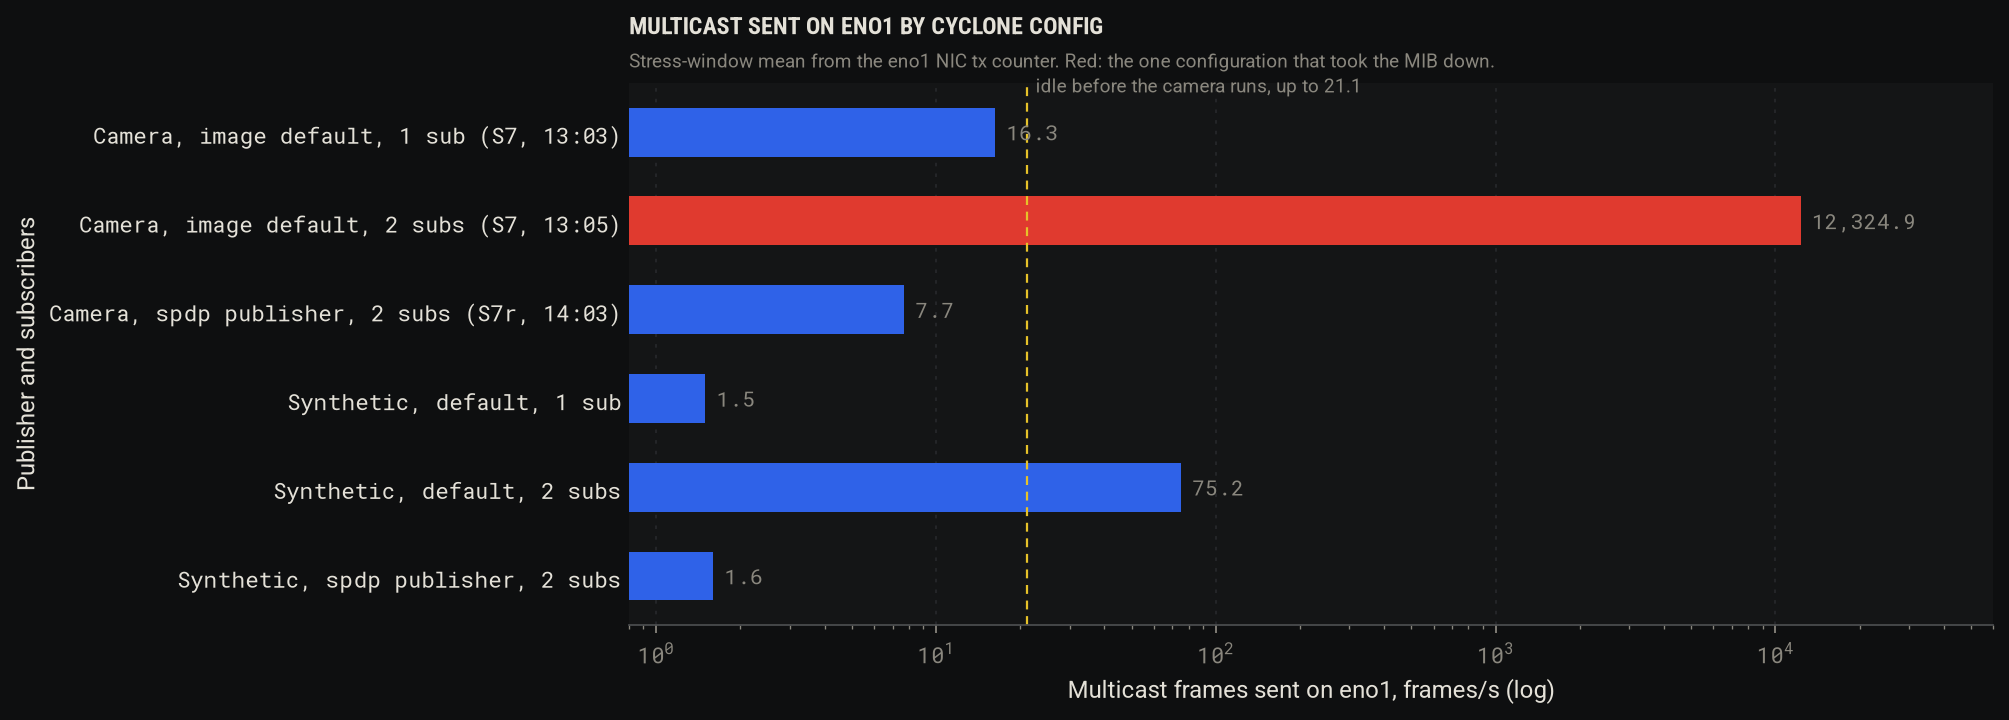
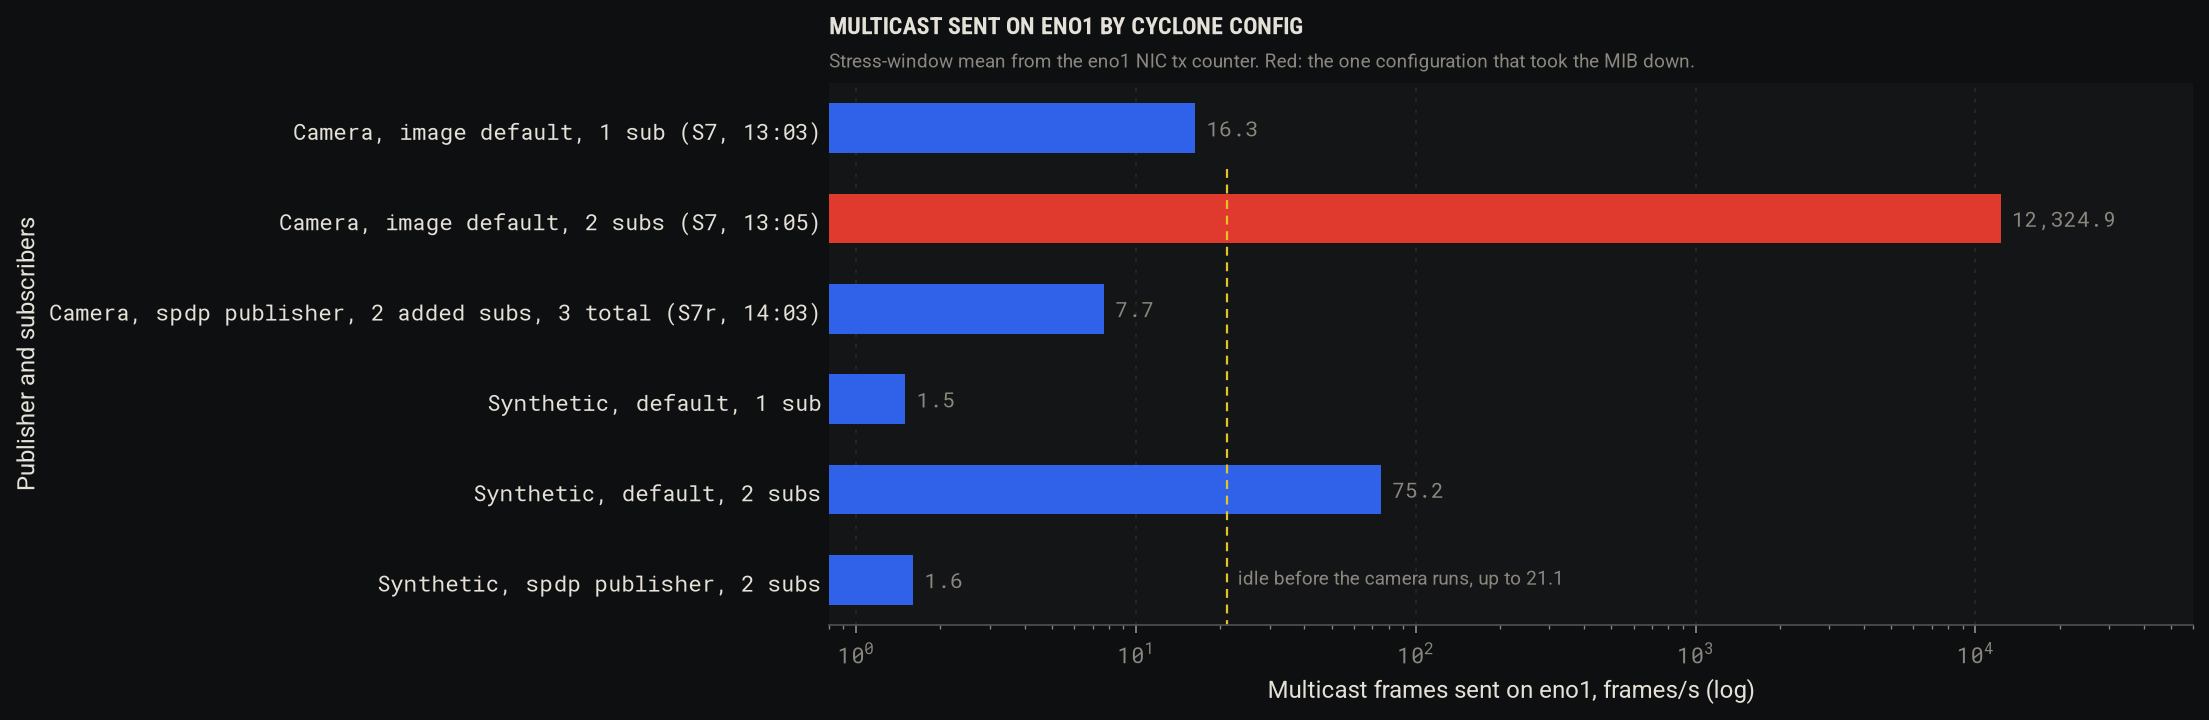
Chart label fixes: panel titles, idle line clear of values, S7r 3 total subs, zoom note and abort labels, probe row name

diff --git a/charts/make_charts.py b/charts/make_charts.py
@@ -106,7 +106,7 @@ def chart_timeline():
         a.plot([dt(t) for t in bt], by, color=S[i], lw=1.4)
         a.set_ylim(-1.5, 23)
         a.set_yticks([0, 10, 20])
-        a.text(0.995, 0.93, lab, transform=a.transAxes, ha="right", va="top", color=P["ink"], fontsize=9)
+        a.set_title(lab, loc="left", color=P["ink"], fontsize=9, pad=3)
         if i < 3:
             plt.setp(a.get_xticklabels(), visible=False)
     for a in axs:
@@ -129,7 +129,7 @@ def chart_multicast():
     items = [
         ("Camera, image default, 1 sub (S7, 13:03)", s1["eno1"]["stress"]["tx_multicast_per_s"]),
         ("Camera, image default, 2 subs (S7, 13:05)", s2["eno1"]["stress"]["tx_multicast_per_s"]),
-        ("Camera, spdp publisher, 2 subs (S7r, 14:03)", sr["tx_mcast_mean_fps"]),
+        ("Camera, spdp publisher, 2 added subs, 3 total (S7r, 14:03)", sr["tx_mcast_mean_fps"]),
         ("Synthetic, default, 1 sub", b1["data_mean_fps"]),
         ("Synthetic, default, 2 subs", b2["data_mean_fps"]),
         ("Synthetic, spdp publisher, 2 subs", bs["data_mean_fps"]),
@@ -147,8 +147,9 @@ def chart_multicast():
         a.annotate(f"{v:,.1f}", xy=(v, i), xytext=(5, 0), textcoords="offset points", va="center",
                    color=P["muted"], fontsize=9.5, fontfamily="Roboto Mono")
     idle = [s1["eno1"]["pre"]["tx_multicast_per_s"], s2["eno1"]["pre"]["tx_multicast_per_s"], sr["tx_mcast_pre_fps"]]
-    a.axvline(max(idle), color=P["warning"], ls=(0, (4, 3)), lw=1)
-    a.annotate(f"idle before the camera runs, up to {max(idle):.1f}", xy=(max(idle), -0.5), xytext=(4, 0),
+    a.set_ylim(len(items) - 0.5, -0.5)
+    a.vlines(max(idle), 0.45, len(items) - 0.5, color=P["warning"], ls=(0, (4, 3)), lw=1)  # stops below row 0's value label
+    a.annotate(f"idle before the camera runs, up to {max(idle):.1f}", xy=(max(idle), len(items) - 1), xytext=(5, 0),
                textcoords="offset points", color=P["muted"], fontsize=8.5, va="center")
     a.set_xlabel("Multicast frames sent on eno1, frames/s (log)")
     a.set_ylabel("Publisher and subscribers")
@@ -175,8 +176,8 @@ def chart_flood():
         a.annotate(lab, xy=(dt(c["t_stress_start"]), 22.5), xytext=(3, 0), textcoords="offset points",
                    color=P["muted"], fontsize=8.5, va="center")
     for t in ABORTS:
-        a.annotate("abort", xy=(dt(t), -0.5), xytext=(2, 0), textcoords="offset points", rotation=90,
-                   color=P["ink"], fontsize=8, va="bottom", ha="left")
+        a.annotate("abort", xy=(dt(t), 6), xytext=(-2, 0), textcoords="offset points", rotation=90,
+                   color=P["ink"], fontsize=8, va="bottom", ha="right")
     for i, s in enumerate(["A", "B"]):
         a.plot([dt(t) for t in T[m]], RATE[s][m], color=S[i], lw=2.0, label=s)
     g = max(case("S7_imgsub_2")["odom"]["gaps"], key=lambda g: g["s"])
@@ -192,8 +193,8 @@ def chart_flood():
     b.plot(tt, tv, color=S[4], lw=2.0)
     b.set_yscale("log"); b.set_ylim(0.1, 400)
     b.set_ylabel("eno1 transmit, Mbit/s (log)")
-    b.text(0.22, 0.95, "All traffic the Jetson sends on eno1, 1 s samples from live.py (not multicast only)",
-           transform=b.transAxes, color=P["muted"], fontsize=8.5, va="top")
+    b.annotate("All traffic the Jetson sends on eno1,\n1 s samples from live.py (not multicast only)",
+               xy=(dt(1794852188), 300), color=P["muted"], fontsize=8.5, va="top", ha="left")
     b.xaxis.set_major_locator(mdates.SecondLocator(bysecond=[0, 30], tz=TZ)); b.xaxis.set_major_formatter(HMS)
     b.set_xlim(dt(t0), dt(t1)); b.set_xlabel("Time on snorlax, EST")
     a.set_xlabel("Time on snorlax, EST"); a.xaxis.label.set_visible(False)
